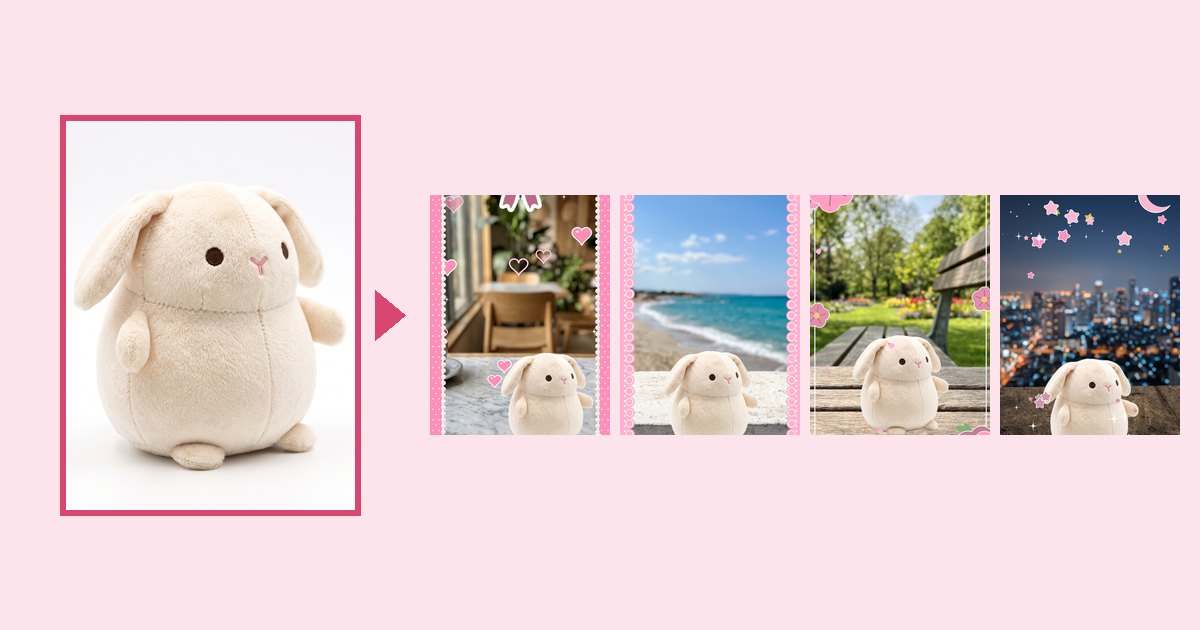
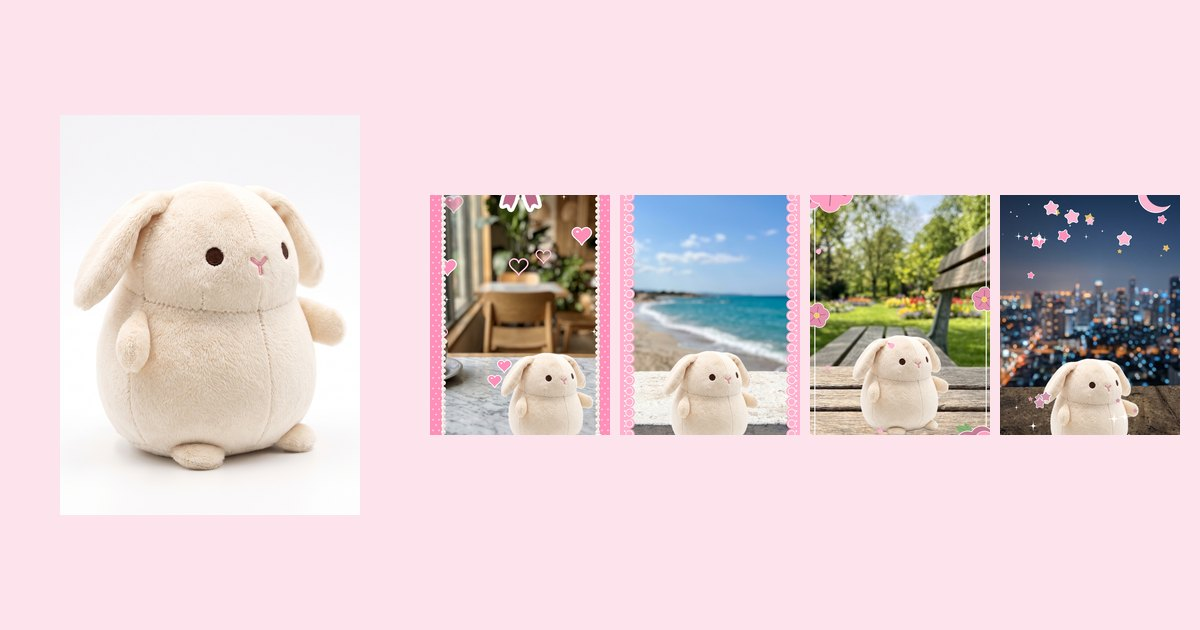
推しパシャ: トップに「カメラ・写真」のカード(配信中)・英語のページを配信中のボタンに・OGP の絵から枠と三角を外す

Changed region(s): [[0.0308, 0.181, 0.3392, 0.8444]]

diff --git a/index.html b/index.html
@@ -94,6 +94,7 @@ footer{margin-top:36px;text-align:center}
 <section class="series"><h2><span class="dot" style="background:#9b7bd4"></span>謎解き・脱出ゲーム</h2><p class="lead">部屋をしらべて、謎を解いて、外へ。かわいい絵の脱出ゲーム。</p><ul class="games"><li><a class="card" href="kotono/"><img src="kotono/images/icon.png" alt=""><span class="name">ことのと おでかけ大作戦</span><span class="newch">新章「ただいま大作戦」追加!</span><span class="say">からくり好きの女の子と、2章・5つの場所の謎解き</span><span class="badge b-on">配信中</span></a></li><li><a class="card" href="lupina/"><img src="lupina/images/icon.png" alt=""><span class="name">ルピナと星の塔</span><span class="newch">新しい部屋が<wbr>2つ追加!</span><span class="say">見習い魔女ルピナの、塔からの脱出(進級試験・5つの部屋)</span><span class="badge b-on">配信中</span></a></li></ul></section>
 
 
+<section class="series"><h2><span class="dot" style="background:#f783ac"></span>カメラ・写真</h2><p class="lead">推しと<wbr>いっしょに、<wbr>いい写真を。<wbr>推し活の<wbr>ためのカメラです。</p><ul class="games"><li><a class="card" href="oshipasha/"><img src="oshipasha/images/icon.png" alt=""><span class="name">推しパシャ</span><span class="say">推しを<wbr>1回<wbr>撮れば、<wbr>いつでも<wbr>どこでも<wbr>一緒に<wbr>撮れるカメラ</span><span class="badge b-on">配信中</span></a><a class="store" href="https://apps.apple.com/jp/app/id6830922828">App Store で見る</a></li></ul></section>
 <section class="series"><h2><span class="dot" style="background:#69db7c"></span>くらしのアプリ</h2><p class="lead">ゲームのほかに、毎日のちょっとした困りごとに手が届くアプリも作っています。</p><a class="life" href="life/"><span class="ic" aria-hidden="true"><img src="life/images/pothos_pot_d0.png" alt=""><img src="life/images/gift.png" alt=""><img src="life/images/box.png" alt=""></span><span><span class="t">七色パレットライフ →</span><span class="s"><span>水やり帳・</span><span>おくりもの帳・</span><span>保証書ばこ</span><span>(近日公開)</span></span></span></a></section>
 
 <section class="req" id="request"><h2>ご要望箱</h2><p>つぎに遊びたいもの・ご要望を教えてください。お名前や連絡先は要りません。</p><a href="https://docs.google.com/forms/d/e/1FAIpQLSfaiI7u2lbt9bwFeZUt-tbgXndUIYVX700rq2caZ3NdWFW9uA/viewform?usp=pp_url&amp;entry.1550498070=%E4%B8%83%E8%89%B2%E3%83%91%E3%83%AC%E3%83%83%E3%83%88%E3%82%B2%E3%83%BC%E3%83%A0%E3%82%BA%E5%85%A8%E4%BD%93" target="_blank" rel="noopener">ご要望箱をひらく</a></section>

diff --git a/oshipasha/en/index.html b/oshipasha/en/index.html
@@ -19,7 +19,7 @@ nav ul{list-style:none;padding:0}nav li{margin:10px 0}nav a{display:block;backgr
 .shots{display:flex;gap:12px;overflow-x:auto;scroll-snap-type:x mandatory;padding:16px 16px 10px;margin:0 -16px}
 .shots img{width:min(402px,calc(100vw - 56px));height:auto;flex:none;border-radius:18px;scroll-snap-align:center;box-shadow:0 4px 0 var(--line)}
 </style></head>
-<body><main><header><a href="../../">← 七色パレットゲームズ</a><span class="langs"><a class="lang" href="../" hreflang="ja">日本語</a></span></header><div class="hero"><img src="../images/icon.png" alt="App icon"><p class="sub">Photo &amp; Video</p><h1>Oshi &amp; Me</h1><span class="soon">Coming soon for iPhone</span></div>
+<body><main><header><a href="../../">← 七色パレットゲームズ</a><span class="langs"><a class="lang" href="../" hreflang="ja">日本語</a></span></header><div class="hero"><img src="../images/icon.png" alt="App icon"><p class="sub">Photo &amp; Video</p><h1>Oshi &amp; Me</h1><a class="soon" href="https://apps.apple.com/app/id6830922828">Download on the App Store</a></div>
 <ul class="feat"><li>Take photos together with your fave plushies, acrylic stands and trading cards</li><li>Finish them cutely with decorations in your oshi color and frames you design yourself</li><li>Hide faces with stickers, and your photos stay on your device</li></ul>
 <nav><ul>
 <li><a href="support.html">Support &amp; Contact</a></li>
